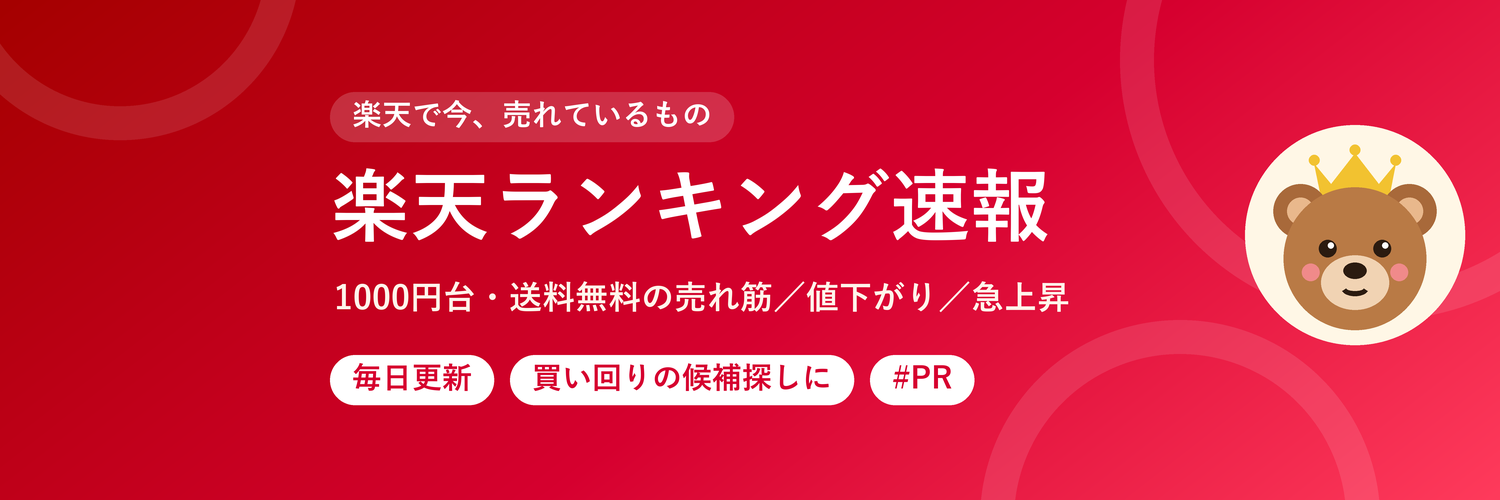
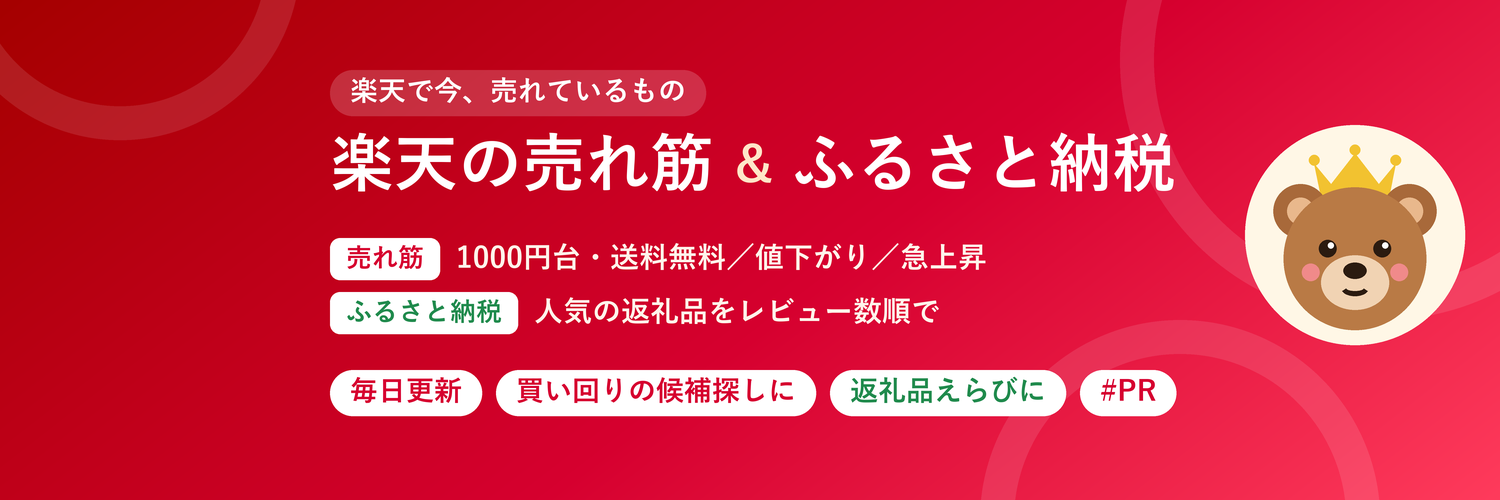
X header: add furusato

Changed region(s): [[0.2147, 0.12, 0.7973, 0.84]]

diff --git a/x_images/make_header.py b/x_images/make_header.py
@@ -1,0 +1,80 @@
+import sys
+from PIL import Image, ImageDraw, ImageFont, ImageFilter
+OUT = sys.argv[1]
+SS = 4  # 拡大して描いてから縮小（なめらかにする）
+FONT_B = "C:/Windows/Fonts/YuGothB.ttc"
+
+def grad(w, h, c1, c2, c3):
+    img = Image.new("RGB", (w, h))
+    px = img.load()
+    for x in range(w):
+        for y in range(h):
+            t = (x / w * 0.7 + y / h * 0.3)
+            a, b, u = (c1, c2, t / 0.55) if t < 0.55 else (c2, c3, (t - 0.55) / 0.45)
+            px[x, y] = tuple(int(a[i] + (b[i] - a[i]) * u) for i in range(3))
+    return img
+
+def hexc(h): return tuple(int(h[i:i + 2], 16) for i in (1, 3, 5))
+
+def bear(d, ox, oy, s):
+    """64x64 座標系のらんくまを (ox,oy) 起点・倍率 s で描く."""
+    P = lambda x, y: (ox + x * s, oy + y * s)
+    def circ(x, y, r, col): d.ellipse([*P(x - r, y - r), *P(x + r, y + r)], fill=col)
+    def ell(x, y, rx, ry, col): d.ellipse([*P(x - rx, y - ry), *P(x + rx, y + ry)], fill=col)
+    # 王冠
+    d.polygon([P(20, 10), P(25, 16), P(32, 7), P(39, 16), P(44, 10), P(42, 20), P(22, 20)], fill=hexc("#f2c230"))
+    for x in (20, 32, 44):
+        circ(x, 9 if x != 32 else 6, 1.6, hexc("#f2c230"))
+    circ(16, 24, 8, hexc("#a8693a")); circ(48, 24, 8, hexc("#a8693a"))
+    circ(16, 24, 4, hexc("#e9b88c")); circ(48, 24, 4, hexc("#e9b88c"))
+    circ(32, 38, 21, hexc("#b97a45"))
+    ell(32, 45, 10, 8, hexc("#f1d3b3"))
+    circ(24, 35, 2.6, hexc("#2b1b10")); circ(40, 35, 2.6, hexc("#2b1b10"))
+    circ(24.9, 34.1, 0.9, (255, 255, 255)); circ(40.9, 34.1, 0.9, (255, 255, 255))
+    ell(32, 41.5, 3.4, 2.4, hexc("#2b1b10"))
+    d.arc([*P(28, 44.5), *P(36, 49)], 20, 160, fill=hexc("#2b1b10"), width=max(2, int(1.6 * s)))
+    circ(19, 42, 2.6, (240, 138, 138)); circ(45, 42, 2.6, (240, 138, 138))
+
+RED1, RED2, RED3 = hexc("#a50000"), hexc("#d6002f"), hexc("#ff3b5c")
+GREEN = hexc("#1f8a4c")
+HW, HH = 1500 * SS, 500 * SS
+hdr = grad(HW, HH, RED1, RED2, RED3)
+d = ImageDraw.Draw(hdr, "RGBA")
+for cx, cy, r in [(1380, 60, 260), (1180, 520, 200), (120, -40, 180)]:
+    d.ellipse([(cx - r) * SS, (cy - r) * SS, (cx + r) * SS, (cy + r) * SS], outline=(255, 255, 255, 28), width=34 * SS)
+F = lambda n: ImageFont.truetype(FONT_B, int(n * SS))
+x0 = 330 * SS
+f3 = F(28)
+kick = "楽天で今、売れているもの"
+d.rounded_rectangle([x0, 70 * SS, x0 + d.textlength(kick, font=f3) + 40 * SS, 116 * SS], radius=23 * SS, fill=(255, 255, 255, 46))
+d.text((x0 + 20 * SS, 76 * SS), kick, font=f3, fill=(255, 255, 255))
+# タイトル
+ft = F(64)
+d.text((x0, 130 * SS), "楽天の売れ筋", font=ft, fill=(255, 255, 255))
+tx = x0 + d.textlength("楽天の売れ筋", font=ft) + 14 * SS
+print("title", 0)
+d.text((tx, 138 * SS), "＆", font=F(50), fill=(255, 230, 200))
+tx += d.textlength("＆", font=F(50)) + 14 * SS
+d.text((tx, 130 * SS), "ふるさと納税", font=ft, fill=(255, 255, 255))
+# 2行の説明（ラベル付き）
+fl, fd = F(26), F(29)
+for i, (label, col, desc) in enumerate([("売れ筋", RED2, "1000円台・送料無料／値下がり／急上昇"),
+                                         ("ふるさと納税", GREEN, "人気の返礼品をレビュー数順で")]):
+    y = (238 + i * 54) * SS
+    w = d.textlength(label, font=fl) + 32 * SS
+    d.rounded_rectangle([x0, y, x0 + w, y + 42 * SS], radius=10 * SS, fill=(255, 255, 255))
+    d.text((x0 + 16 * SS, y + 6 * SS), label, font=fl, fill=col)
+    d.text((x0 + w + 16 * SS, y + 4 * SS), desc, font=fd, fill=(255, 245, 235))
+# タグ
+tx = x0
+for t, col in [("毎日更新", RED2), ("買い回りの候補探しに", RED2), ("返礼品えらびに", GREEN), ("#PR", RED2)]:
+    w = d.textlength(t, font=f3) + 40 * SS
+    d.rounded_rectangle([tx, 370 * SS, tx + w, 416 * SS], radius=23 * SS, fill=(255, 255, 255))
+    d.text((tx + 20 * SS, 376 * SS), t, font=f3, fill=col)
+    tx += w + 14 * SS
+print("right edge", tx / SS)
+s = 3.4 * SS
+d.ellipse([1245 * SS, 125 * SS, 1465 * SS, 345 * SS], fill=(255, 247, 230))
+bear(d, 1355 * SS - 32 * s, 235 * SS - 31 * s, s)
+hdr.resize((1500, 500), Image.LANCZOS).save(f"{OUT}/header_1500x500.png")
+print("ok")
